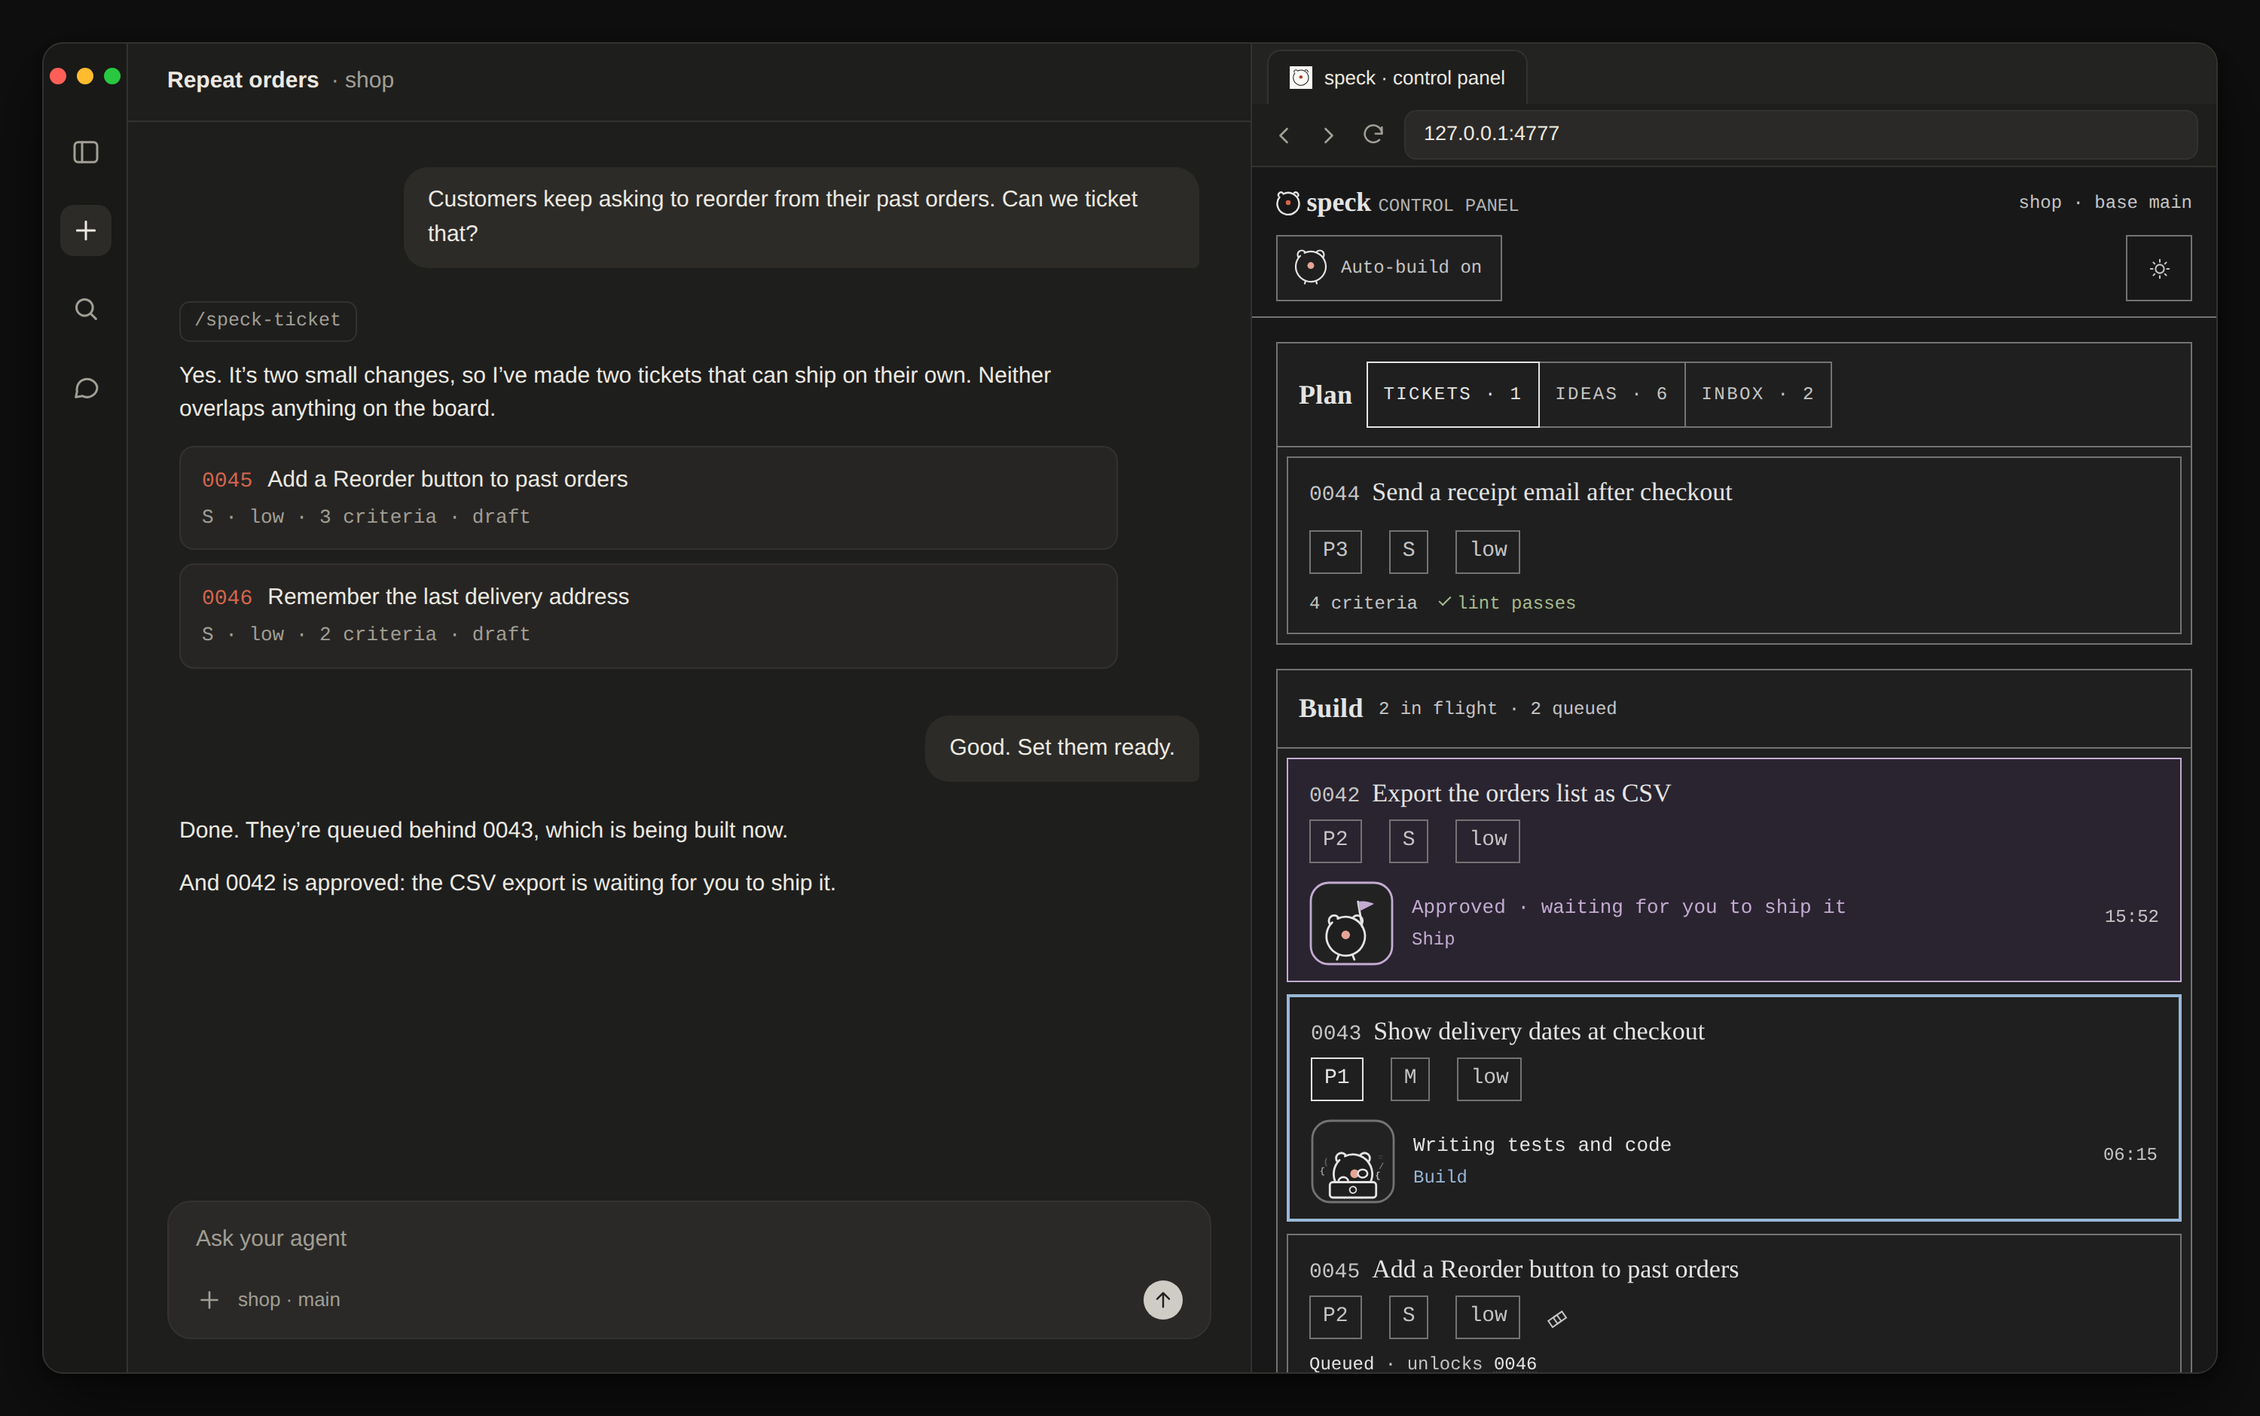
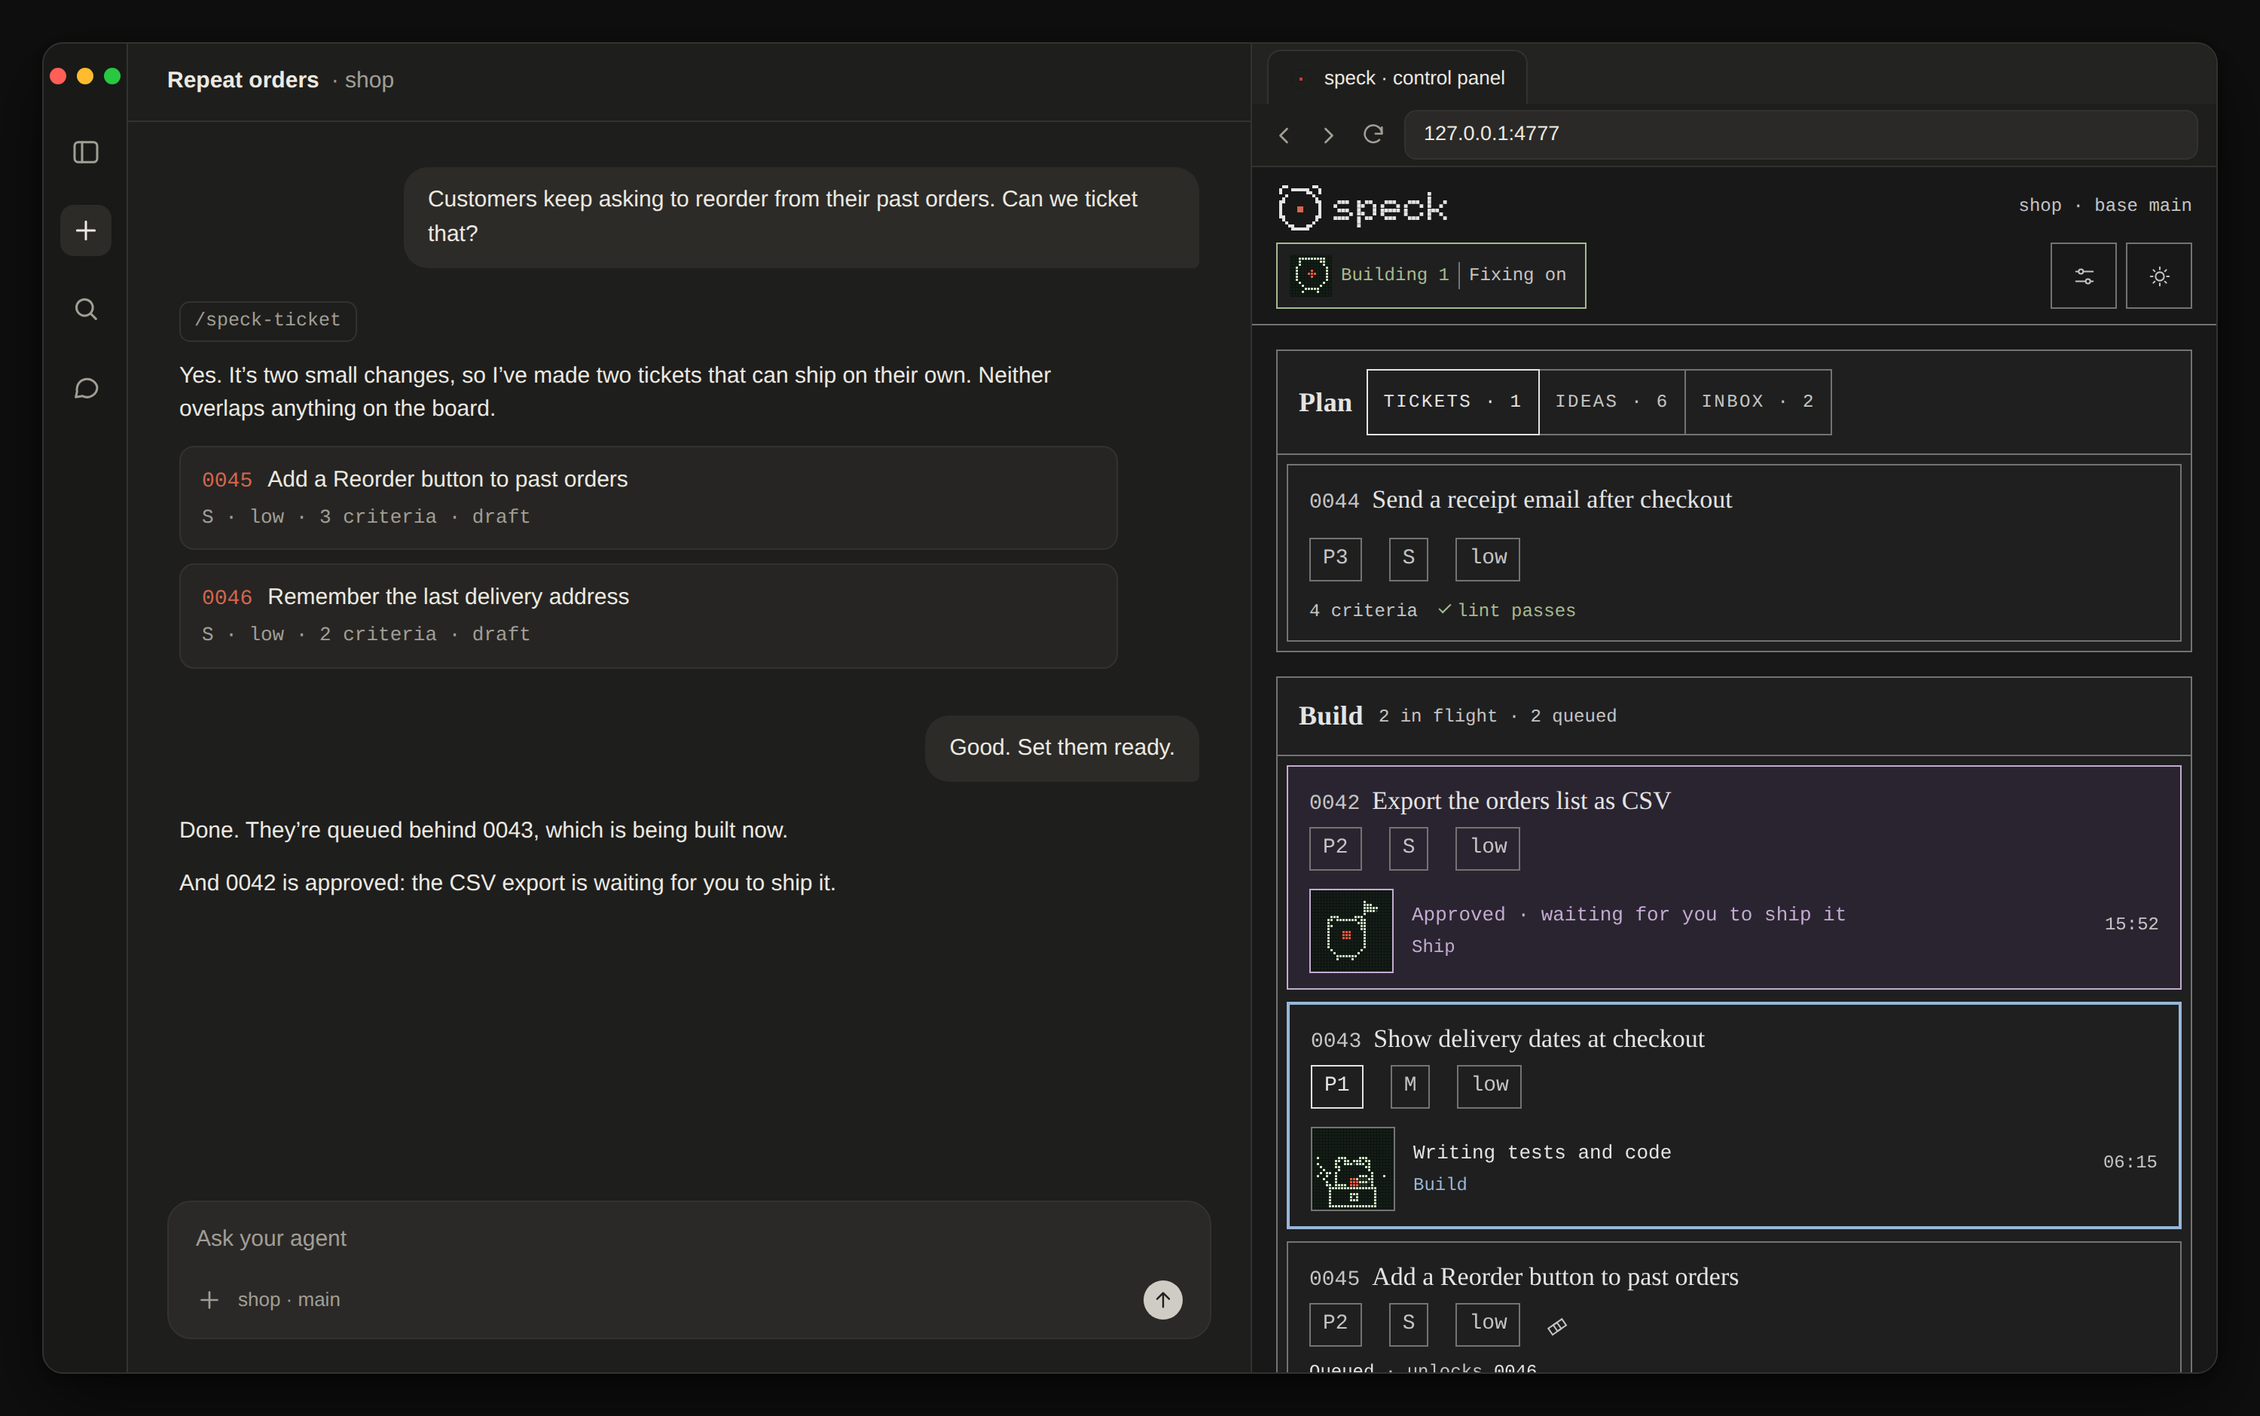
speck(0306): bring the README and its picture up to date

diff --git a/README.md b/README.md
@@ -66,9 +66,9 @@ Then `/speck-review` starts the review loop. The builder (Claude Code by default
 
 Read a one-page review pack, then ship. Or let low-risk work ship itself.
 
-Every approved ticket has a review pack (`speck pack <id>`, or the ticket in the panel), written for someone who doesn't read code. When a ticket changes how something looks, the build takes pictures of the result in a real browser, and the pack shows them. Read it, then run `/speck-ship <id>` or click the Ship button in the review pack. That's Gate 2. Agents never merge or ship unless you do one of those, or you turn on `auto_ship` in `speck/config.yml`. With `auto_ship` on, `speck run` ships each approved ticket whose risk is listed in `auto_ship_risk` (`[low]` by default) as soon as the reviewer approves it, while it's on. With `ship_mode: pr`, once a ticket is approved, speck pushes the ticket's branch and opens a GitHub pull request for it with `gh`, with its review pack, and the panel shows the link. Shipping then merges that pull request on GitHub once its checks pass, instead of merging locally, and tidies up as a local ship does. If you merge it on GitHub yourself, shipping it, or `speck run`, only tidies up.
+Every approved ticket has a review pack (`speck pack <id>`, or the ticket in the panel), written for someone who doesn't read code. When a ticket changes how something looks, the build takes pictures of the result in a real browser, and the pack shows them. Read it, then run `/speck-ship <id>` or click the Ship button in the review pack. That's Gate 2. Agents never merge or ship unless you do one of those, or you turn on `auto_ship` in `speck/config.yml`. With `auto_ship` on, `speck run` ships each approved ticket whose risk is listed in `auto_ship_risk` (`[low]` by default) as soon as the reviewer approves it, while it's on. With `ship_mode: pr`, once a ticket is approved, speck pushes the ticket's branch and opens a GitHub pull request for it with `gh`, with its review pack, and the panel shows the link. Shipping then merges that pull request on GitHub once its checks pass, instead of merging locally, and tidies up as a local ship does, so speck never pushes straight to the base branch. If you merge it on GitHub yourself, shipping it, or `speck run`, only tidies up.
 
-Shipping runs `speck ship <id>`. It refuses, changing nothing, unless the reviewer approved the ticket, nothing outside `speck/` changed after that approval, the working tree is clean and the whole test suite passes on the ticket merged with the base branch as it is now. Then, with the default `ship_mode: local`, it sets the ticket to `done`, merges the branch into `main`, pushes it if you have a remote, and deletes the branch. No GitHub needed. Everything happens in your local repo. With `ship_mode: pr`, it merges the ticket's pull request on GitHub instead.
+Shipping runs `speck ship <id>`. It refuses, changing nothing, unless the reviewer approved the ticket, nothing outside `speck/` changed after that approval, the working tree is clean and the whole test suite passes on the ticket merged with the base branch as it is now. Then, with the default `ship_mode: local`, it sets the ticket to `done`, merges the branch into `main`, pushes it if you have a remote, and deletes the branch. No GitHub needed. Everything happens in your local repo. With `ship_mode: pr`, it files the ticket as `done` on its own branch, merges the ticket's pull request on GitHub instead, and brings your local `main` up to date from GitHub.
 
 ## What a review pack looks like
 
@@ -92,6 +92,8 @@ These are the jobs speck takes off your hands, from raising its own fix tickets 
 **Ideas only become tickets in conversation.** Say "capture this" and your agent saves the idea, or the whole conversation, in your repo with `/speck-capture`. It becomes tickets only when you talk it through with your agent, through `/speck-ticket`, which writes each one as a `draft`. The panel shows your ideas but has no button that turns one into a ticket.
 
 **It asks, then moves on.** When a build needs your call, it stops with one plain question, the options and its recommendation. It writes the question under `## Blocked question` in the ticket, with whether any option changes what you'd notice and whether its recommendation is a clear winner or a close call, which the panel shows on the question, and sets it to `blocked`, and `speck run` carries on with the next ticket. Answer it, then run `/speck-build <id>` to resume it; the panel shows the command that reopens the build's own session (`resume_command`). With `foreman_fixing: fix` in `speck/config.yml`, `speck run` answers a question itself when no option changes what you'd notice and its recommendation is a clear winner: it takes the recommendation, notes in the ticket that the Foreman chose it, and starts the build again. It does this once per ticket, and leaves every other question for you. The default, `tell`, leaves them all for you, and `off` also stops the Foreman counting them under Needs you.
+
+**It shows where everything stands at a glance.** The Foreman is speck's name for `speck run` keeping the pipeline moving. The panel's header shows its status in a word or two, such as Building, Shipping or Needs you, so you can tell whether anything is waiting for you. Press it for the detail.
 
 **It looks into stops it has no steps for.** With `foreman_fixing: fix`, when a ship is refused for a reason `speck run` doesn't hand back to the build, or a build ends with its ticket neither approved nor blocked, `speck run` starts the Foreman agent with a short brief: the ticket, what happened and the last lines of its log. The agent looks into it and does one thing: resumes the build with an instruction, has `speck run` ship it again once, makes a draft fix ticket, or asks you one question. It never sets a ticket ready, approves work, ships anything `auto_ship` doesn't cover or changes code. What it did, and why, goes in the ticket's Notes and the Foreman's detail. Only one Foreman agent runs at a time, and it looks into a ticket once for the same commits. It runs on `foreman` (`claude` or `codex`; blank uses the builder when that's Codex, and Claude Code otherwise), with `foreman_model` and `foreman_effort`, blank for the agent's own defaults.
 
@@ -123,7 +125,7 @@ A build never runs the whole suite. Before it changes anything, it reads the res
 
 ### Builds and the ship queue
 
-`speck run` keeps up to `max_parallel_builds` builds going, 1 unless you raise it for the project or for this machine, each on its own branch in its own worktree, so a build never touches your checkout and you keep writing ideas and tickets on the base branch. Builds end at `approved`. One ship queue in `speck run` ships approved tickets one at a time, so ships never race each other for `main`, and each ship tests the ticket as it would land on the base branch as it is then. If that fails, the queue hands the ticket back to its build: to merge `main` in, to fix tests that fail with `main`'s newer changes, or to raise a fix ticket when `main`'s own tests fail. While the queue is paused because `main`'s own tests fail, it still ships approved fix tickets. When `main` on your remote has moved on while yours has commits of its own, `speck ship` merges the remote's in first, or stops, changing nothing, when it can't do that cleanly. A build that was killed before it finished is resumed once. `speck pause <id>`, `speck play <id>` and `speck stop <id>` hold, carry on or end a build.
+`speck run` keeps up to `max_parallel_builds` builds going, 1 unless you raise it for the project or for this machine, each on its own branch in its own worktree, so a build never touches your checkout and you keep writing ideas and tickets on the base branch. Builds end at `approved`. One ship queue in `speck run` ships approved tickets one at a time, so ships never race each other for `main`, and each ship tests the ticket as it would land on the base branch as it is then. If that fails, the queue hands the ticket back to its build: to merge `main` in, to fix tests that fail with `main`'s newer changes, or to raise a fix ticket when `main`'s own tests fail. While the queue is paused because `main`'s own tests fail, it still ships approved fix tickets. When `main` on your remote has moved on while yours has commits of its own, `speck ship` merges the remote's in first, or stops, changing nothing, when it can't do that cleanly. A build that was killed before it finished is resumed once. Only one `speck run` works in a repo at a time: starting another, from a terminal or the Settings view's switch, is refused with a message naming the one that's running. `speck pause <id>`, `speck play <id>` and `speck stop <id>` hold, carry on or end a build.
 
 ## Who it's for
 
@@ -191,7 +193,7 @@ In your agent:
 
 | Skill | What it does |
 |---|---|
-| `/speck-setup` | Takes you through setting speck up in a conversation: checks what's there, explains each choice (base branch, test command, builder and reviewer, whether `speck run` builds skip permission prompts), goes through the settings in the panel's Settings view, such as `auto_ship` and the ticket size limits, asks before changing anything, and finishes once `speck doctor` passes. It's hidden from the `/` menu: the setup prompt above starts it |
+| `/speck-setup` | Takes you through setting speck up in a conversation: checks what's there, explains each choice (base branch, test command, builder and reviewer, whether `speck run` builds skip permission prompts, whether to ship through pull requests with `ship_mode`), goes through the settings in the panel's Settings view, such as `auto_ship` and the ticket size limits, asks before changing anything, and finishes once `speck doctor` passes. It's hidden from the `/` menu: the setup prompt above starts it |
 | `/speck-capture` | Saves an idea or the current conversation to `speck/ideas/` |
 | `/speck-ticket` | Turns an idea into small, numbered draft tickets that pass the size rules, or triages the inbox down to at most three decisions |
 | `/speck-build <id>` | Builds one ready ticket: tests from the acceptance criteria, then code, then the review loop. Ends with the ticket `approved`, for `speck run` to ship if `auto_ship` allows it |
@@ -204,7 +206,7 @@ In your terminal, as `node .speck/scripts/speck.mjs <command>` (`speck help` lis
 | Command | What it does |
 |---|---|
 | `set <id> status ready` | Approves a ticket for building: `node .speck/scripts/speck.mjs set <id> status ready` (Gate 1). Run it on the base branch: it commits the ticket, and only that file. `set` also changes a ticket's priority, size, title and other fields |
-| `run` | Starts `/speck-build` in a non-interactive session for each ticket once it's committed as ready on the base branch, one at a time unless you raise `max_parallel_builds`, using `build_command` in `speck/config.yml`, or Codex's or Cursor's own command when that's blank. The default skips all permission prompts. A build that was killed before it finished is resumed once |
+| `run` | Starts `/speck-build` in a non-interactive session for each ticket once it's committed as ready on the base branch, one at a time unless you raise `max_parallel_builds`, using `build_command` in `speck/config.yml`, or, when that's blank, the command of the builder each ticket records: Codex's, Cursor's or Claude Code's. The default skips all permission prompts. A build that was killed before it finished is resumed once |
 | `panel` | The control panel in your browser |
 | `pause <id>` / `play <id>` / `stop <id>` | Hold a running build where it is, carry it on, or end it and block its ticket, keeping its branch and work if it had started. A ticket stopped before its build started is built again with `/speck-build <id>` |
 | `status` | Tickets by status, blocked first (`--json` for programs) |
@@ -228,7 +230,7 @@ reviewer_options:
 
 To let later rounds continue the reviewer's own session instead of resending everything, add `session_id_path` (where the session id is in its output) and a `resume_command` with `{session}`. `{model}` and `{effort}` come from `reviewer_model` and `reviewer_effort`; if one is blank, it's left out with its flag. The reviewer is asked to stay read-only, but speck doesn't sandbox it, so use the tool's read-only mode. Flags change, so check your tool's current ones.
 
-Claude Code needs no command: set `reviewer: claude` and speck runs it for you, whatever the builder, so a Codex or Cursor build can be reviewed by Claude. It runs without a person in Claude Code's `dontAsk` permission mode, which runs read-only commands and denies anything else rather than asking, with its file-writing tools taken away and without your own Claude Code settings, so no allow rule in them lets it change files. Later rounds resume the same session. Set `allow_same_model_review: true` if Claude is also the builder, unless `builder_model` and `reviewer_model` are both set and differ.
+Claude Code needs no command: set `reviewer: claude` and speck runs it for you, whatever the builder, so a Codex or Cursor build can be reviewed by Claude. It runs without a person in Claude Code's `dontAsk` permission mode, which runs read-only commands and denies anything else rather than asking, with its file-writing tools taken away, without your own Claude Code settings, so no allow rule in them lets it change files, and without your MCP servers or connectors. Later rounds resume the same session. Set `allow_same_model_review: true` if Claude is also the builder, unless `builder_model` and `reviewer_model` are both set and differ.
 
 ## Repo layout
 

diff --git a/speck/tickets/0306-bring-the-readme-and-its-picture-up-to-date.md b/speck/tickets/0306-bring-the-readme-and-its-picture-up-to-date.md
@@ -40,6 +40,8 @@ The README describes what speck does now, and its picture shows the panel as it 
 - 0249's pictures were made with the demo in `speck-assets/readme/demo/` beside this checkout, outside the repo: `server.mjs` serves the real panel page from a speck checkout with made-up tickets inside a mock agent app (`frame.html`), and `shoot.mjs` takes the screenshot at 2× with headless Chromium. Don't commit that folder or its paths.
 - Waits for everything it describes, so the README and picture match what ships.
 - Failing before this build: none
+- Tests: AC1, AC2 and AC4 are about how the README reads and what the pictures show, so review checks them by reading the README and looking at `docs/images/`. `test/readme-0306.test.mjs` checks AC3's file facts (width, size, no text or EXIF chunks). The pictures were taken again with the 0249 demo, updated to serve the panel's LCD script and font and to give the header the Foreman's status, worked out by speck's own code.
+- Self-check: dropped two tests that checked the README's wording (the 0267 check fails on them), and changed the Foreman paragraph's heading so it doesn't promise one word when the status can be two.
 
 ## In plain words
 <!-- Filled in by the builder before approval: the change for someone who doesn't read code. -->
